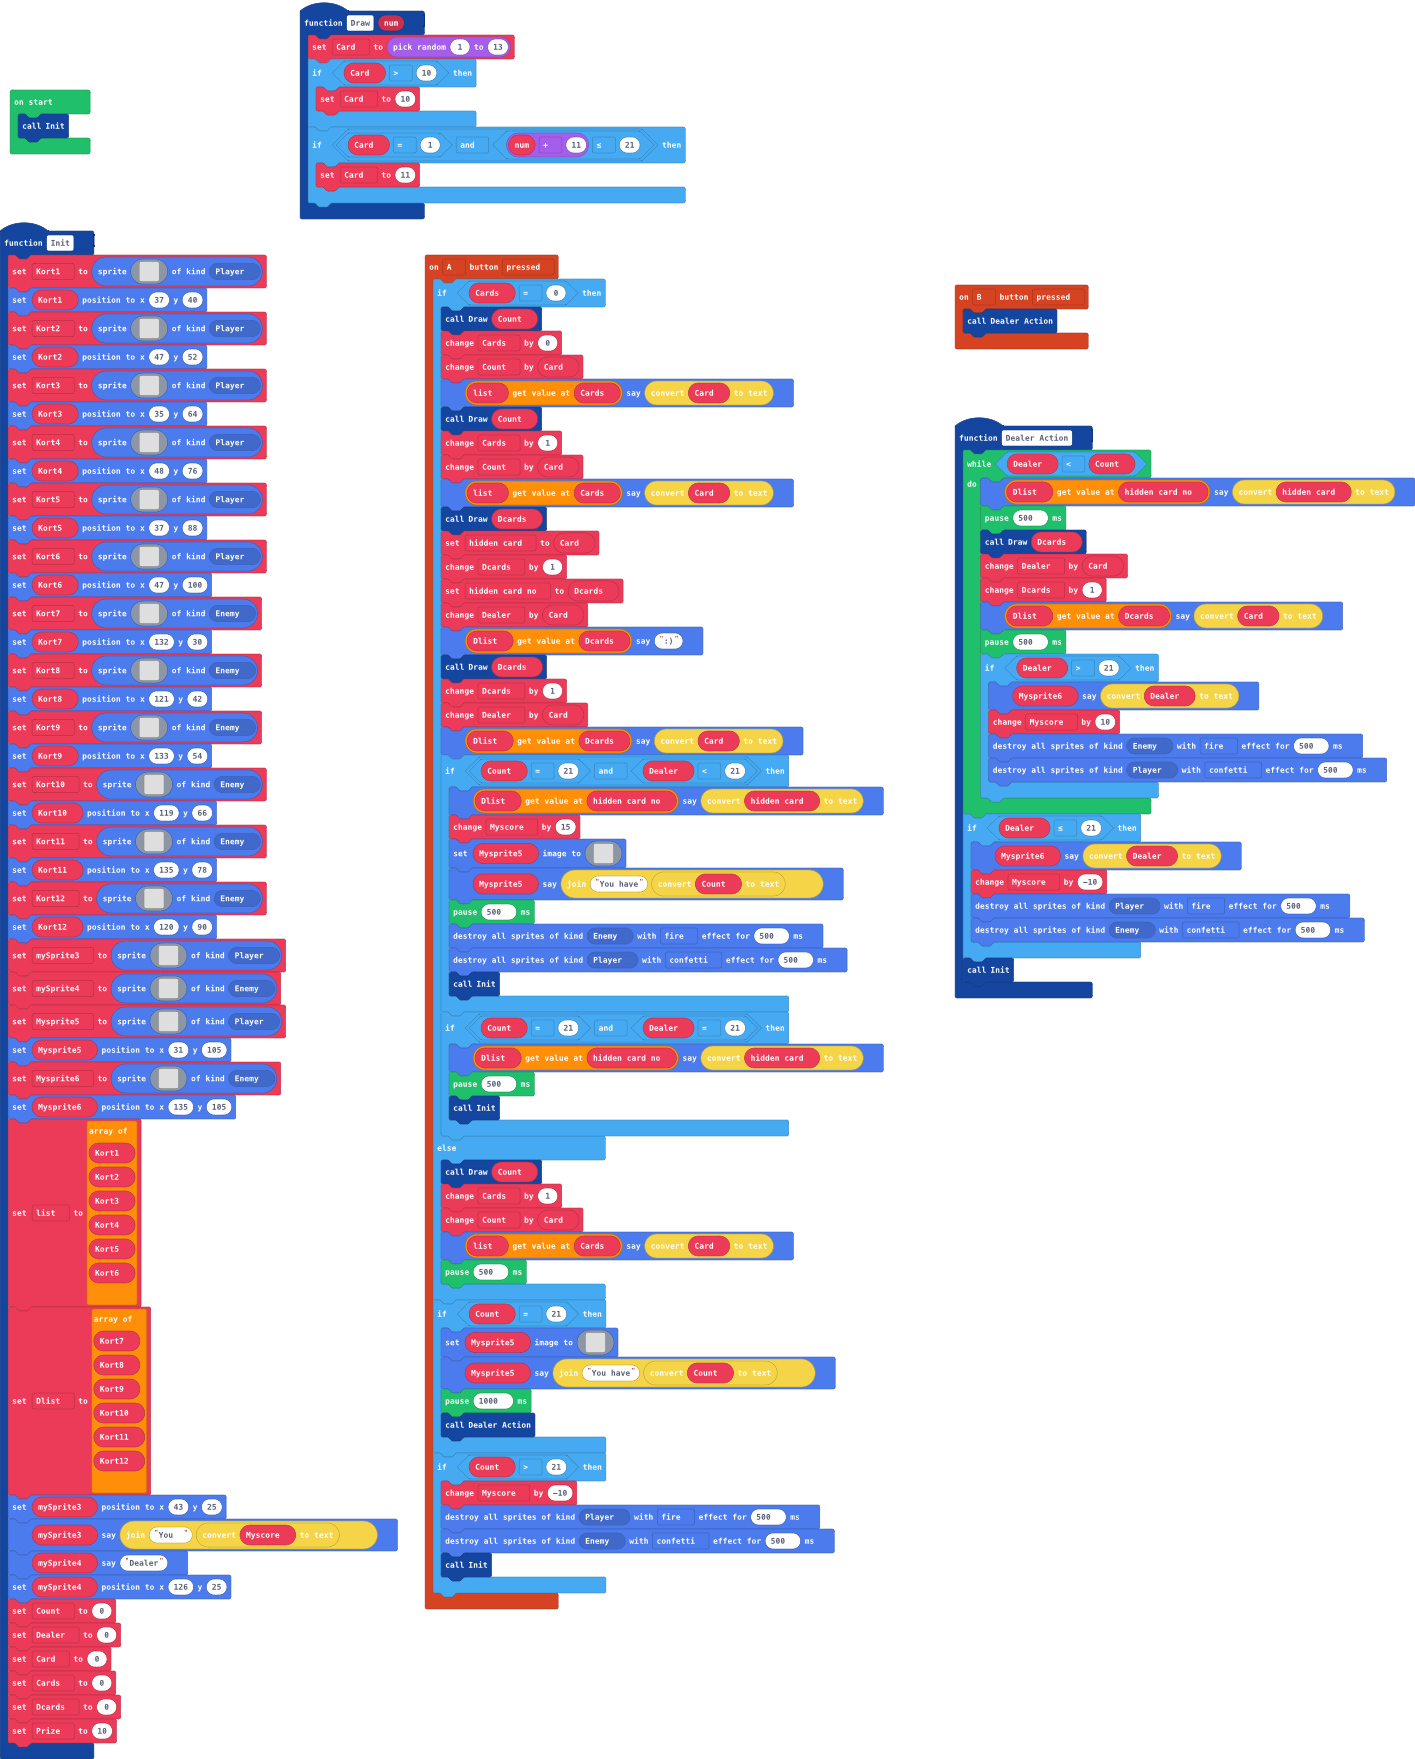
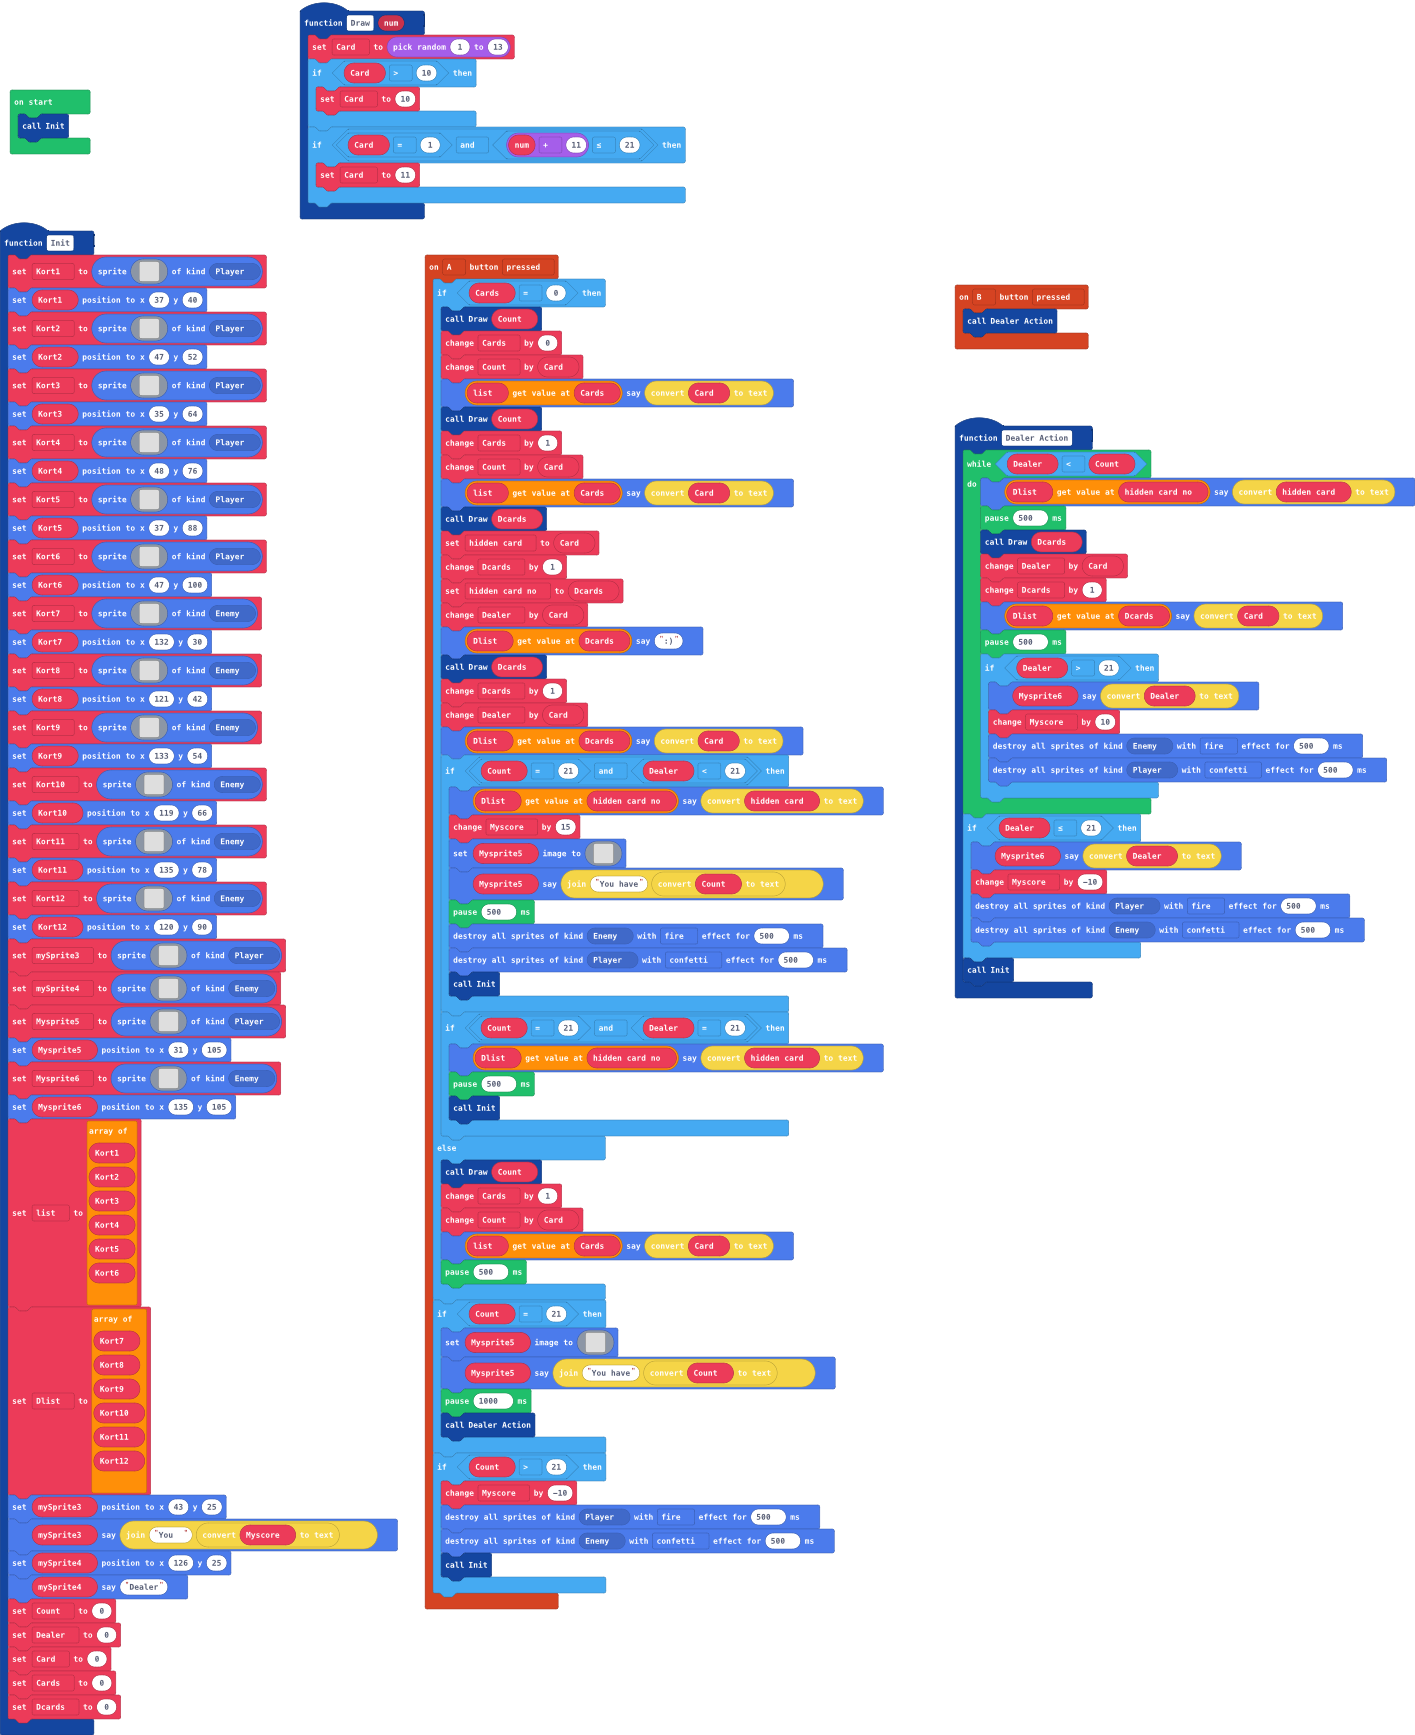
Update main.blocks, main.ts

diff --git a/main.ts b/main.ts
@@ -438,16 +438,14 @@ function Init () {
     ]
     mySprite3.setPosition(43, 25)
     mySprite3.sayText("You  " + convertToText(Myscore))
-    mySprite4.sayText("Dealer")
     mySprite4.setPosition(126, 25)
+    mySprite4.sayText("Dealer")
     Count = 0
     Dealer = 0
     Card = 0
     Cards = 0
     Dcards = 0
-    Prize = 10
 }
-let Prize = 0
 let mySprite4: Sprite = null
 let mySprite3: Sprite = null
 let Kort12: Sprite = null
